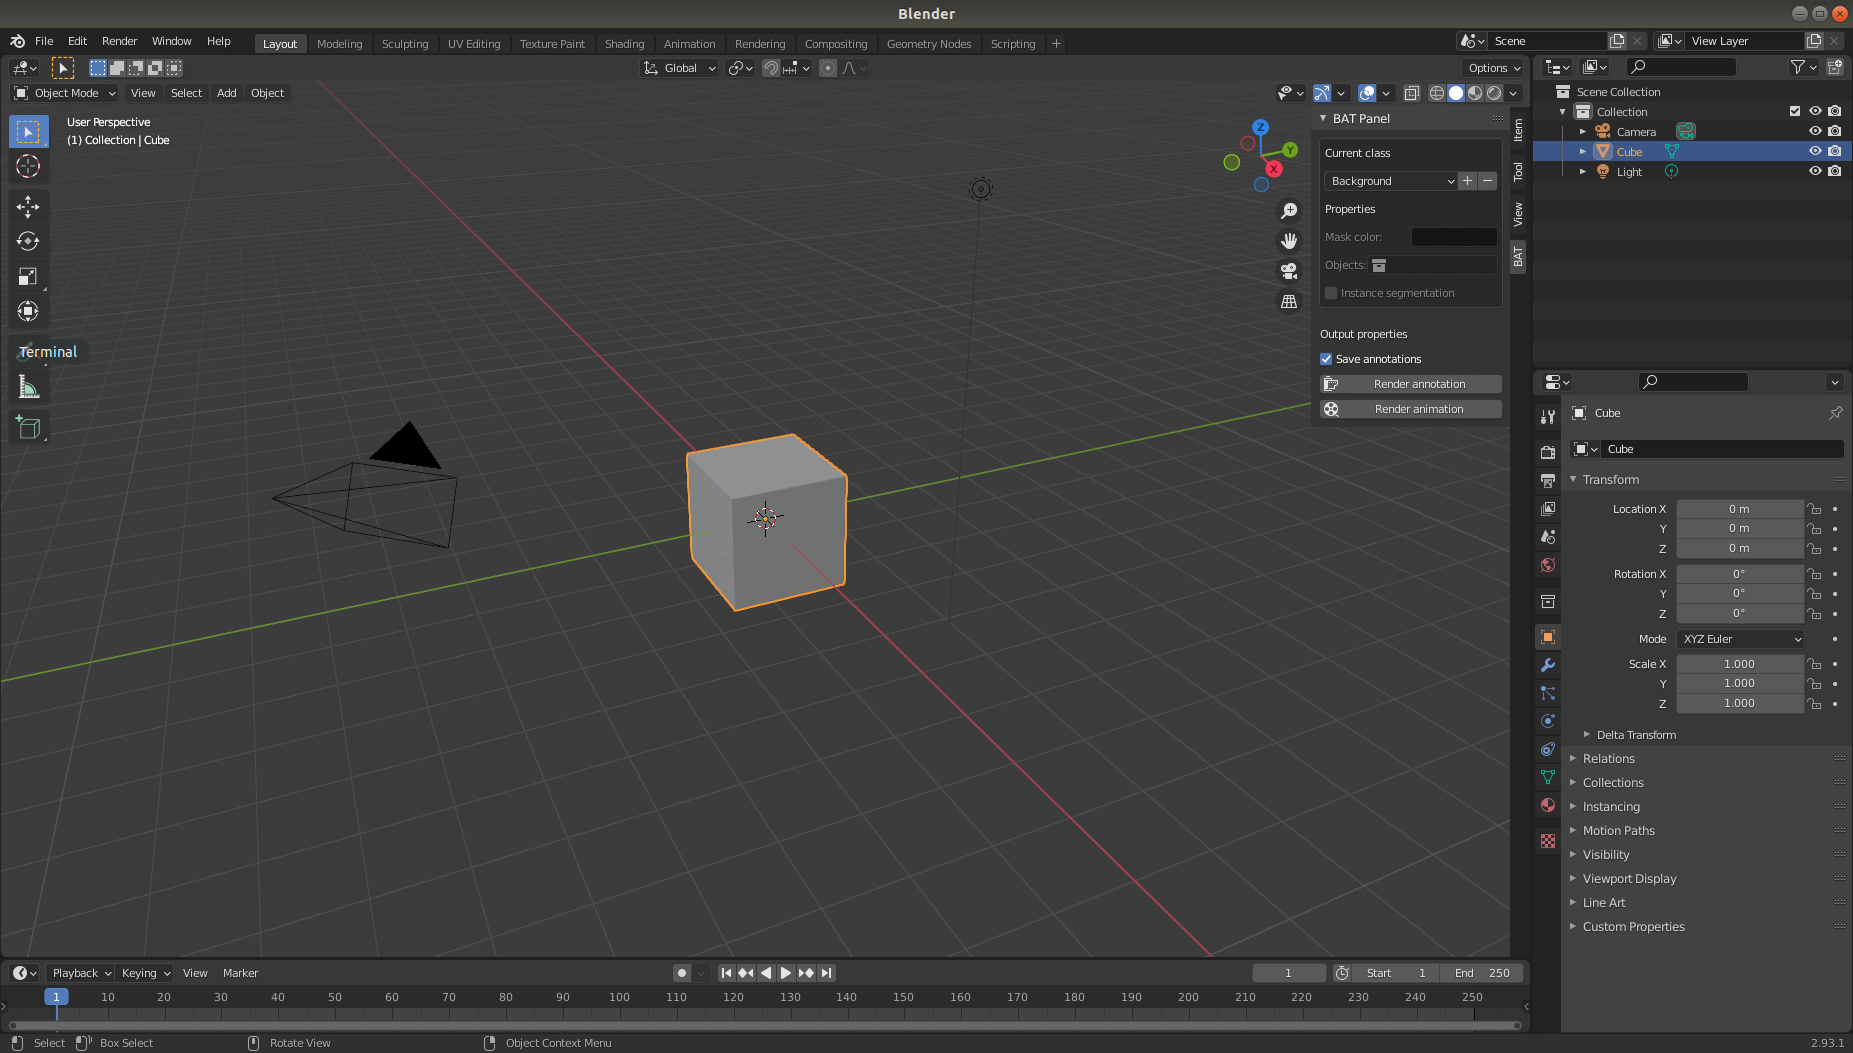
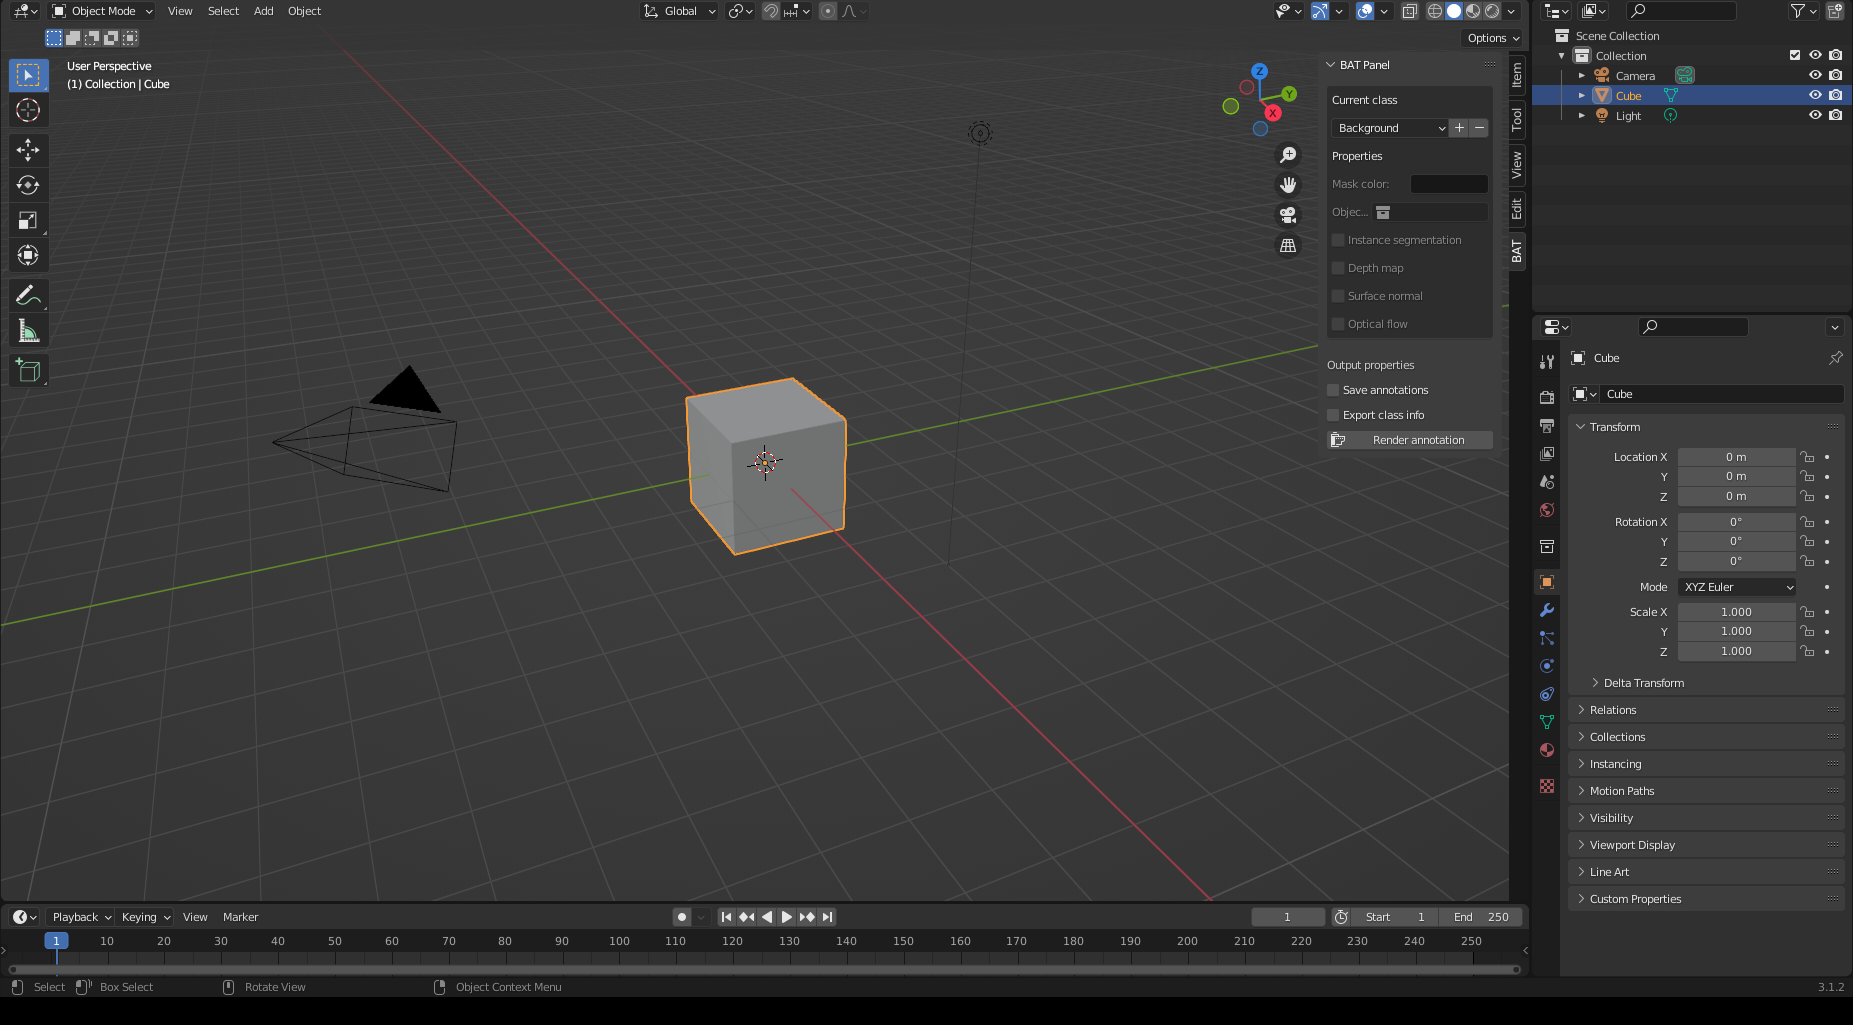
Update README

diff --git a/README.md b/README.md
@@ -4,30 +4,30 @@ A blender addon for 3D scene annotation.
 
 ## Installation
 
-The addon requires Blender version 2.8+ and was tested with Blender 2.9.3.
+The addon requires Blender version 3.1.2 (It might work with a newer Blender version as well)
 
-To install the addon download the repository as a zip file. In Blender navigate to Edit>Preferences>Addons and click Install.
-Select the downloaded zip. After this the addon should appear in the list of addons (in the Render category). Click the checkbox to activate the addon.
+To install the add-on, download the repository as a zip file. Then, in Blender, navigate to Edit>Preferences> Addons and click Install.
+Select the downloaded zip. The addon should then appear in the list of addons (in the Render category). Click the checkbox to activate the addon.
 
-**IMPORTANT: Upon installation, after the addon is activated first click inside the 3D viewport to trigger an update. This sets a default value for the list of classes. Othervise the addon will still be functional, but the 'Background' class will be missin which might be confusing.**
+**IMPORTANT: Upon installation, after the addon is activated, click inside the 3D viewport to trigger an update. This sets a default value for the list of classes. Otherwise, the addon will still be functional, but the 'Background' class will be missing, which might be confusing.**
 
-After installation the addon can be used in the Layout tab's N menu.
+After installation, the addon can be used in the Layout tab's N menu.
 ![BAT Panel](imgs/bat_panel.png?raw=true "BAT Panel")
 
 ## Usage
 
-Use the panel to add, delete and edit classes. If 'save annotations' is checked, teh annotations will be saved in a file whenever the annotations are rendered or a render from the scene is saved.
+Use the panel to add, delete, and edit classes. You can select which class you want to configure using the current class dropdown selector. All configured classes will be represented in the annotations. Choosing a mask color is only necessary for visualization purposes (the saved file will have class and instance ID channels included). The `Instance segmentation` checkbox can be used to distinguish between instances of this class. The `Depth map`, `Surface normal`, and `Optical flow` checkboxes can be used to generate the corresponding modalities along with the annotations (these checkboxes are shared across all classes).
 
-The **render annotation** button can be used to view the annotation result for the current scene and frame.
+If `Save annotations` is checked, the annotations will be saved in a file whenever they are rendered. If `Export class info` is checked, a JSON object containing the mapping between class IDs and class names will be saved upon rendering.
 
-The **render animation** button is a convenience functionality, as the automatic saving of annotations does not work with Blender's original Render Annotation button. Keep in mind that **BAT's render animation button is blocking** so the UI will not respond until the whole animation is rendered. This is necessary for the saving of the annotations along with the renders.
+The **render annotation** button allows you to manually render the annotations for the current scene and frame.
 
-The naming scheme fo the annotations is RENDERED_FRAME_annotation.extension, where RENDERED_FRAME is the filename for the rendered frame and extension is the extension set in the output properties in Blender. The annotations are saved in the same directory as the renders.
+The annotations are saved as OpenEXR Multilayer files in a newly created folder called `annotations` in the same directory as the renders. You can use the `OpenEXRReader` class in [this repository](https://github.com/karolyartur/exr_reader) to read these files into Python efficiently.
 
-### Simple usage example
+### Simple usage example with binary segmentation
 
-![Cube Example](imgs/cube_example.gif)
+![Binary segmentation Example](imgs/binary_segmentation.gif)
 
-### Instance segmentation example
+### Instance segmentation and additional modalities
 
-![Instance Segmentation Example](imgs/instance_segmentation_example.gif)
+![Instance Segmentation and other modalities](imgs/instance_segmentation_example.gif)
